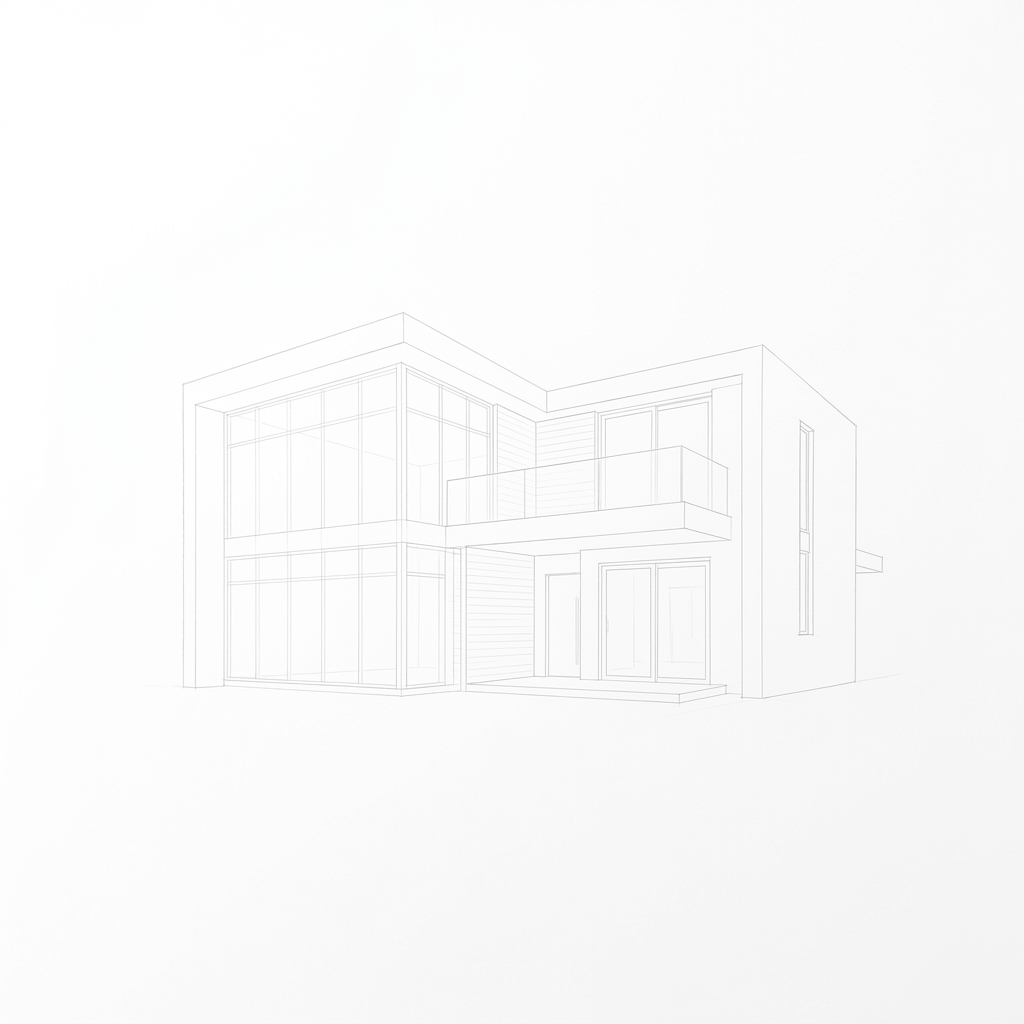
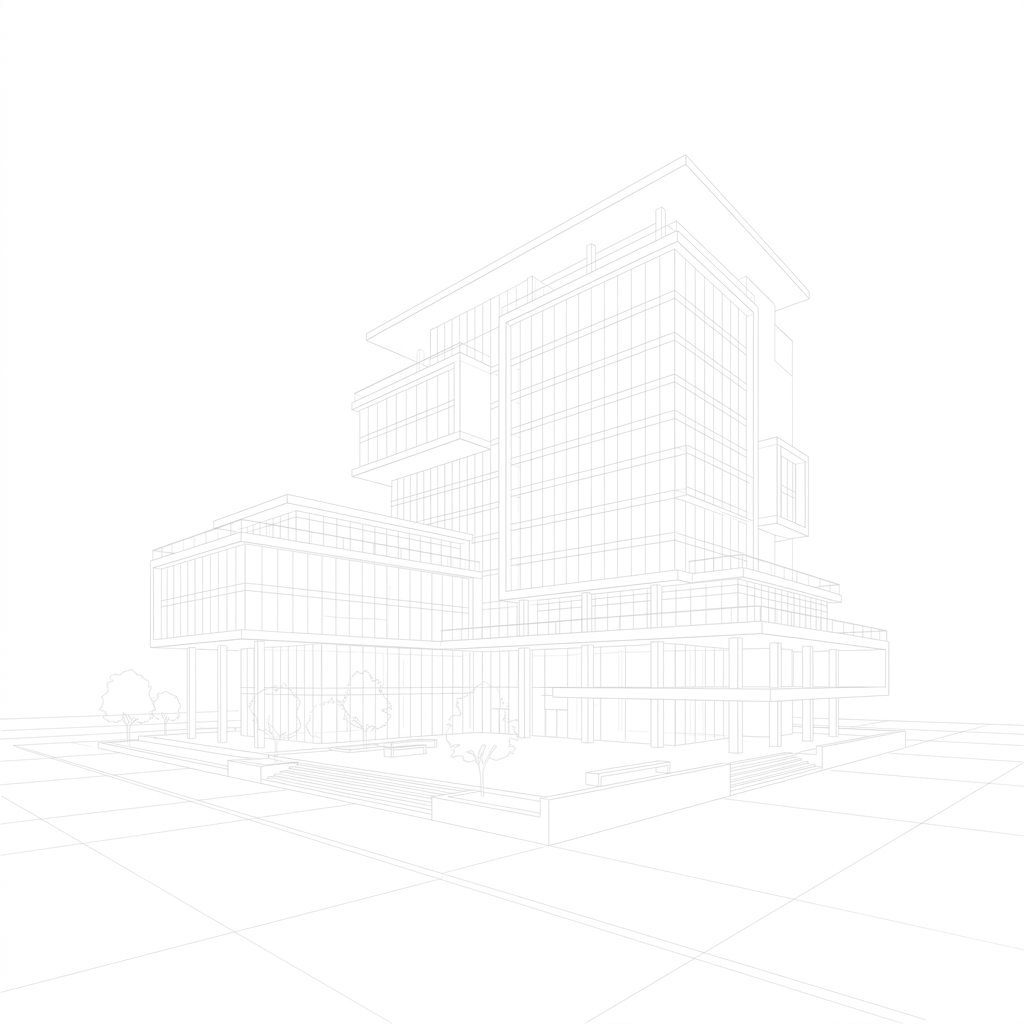
home page 1st sec

diff --git a/assets/css/style.css b/assets/css/style.css
@@ -632,9 +632,15 @@ p {
 #about {
   background: var(--white) url('../images/sketch-bg.png') no-repeat 65% center;
   background-size: 45%;
-  background-blend-mode: multiply;
   overflow: hidden;
   padding: 80px 0;
+}
+
+/* Make the about section fill full screen width like the reference site */
+#about .container {
+  max-width: 100%;
+  width: 100%;
+  padding: 0 6vw;
 }
 
 .new-about-top {
@@ -653,13 +659,23 @@ p {
 }
 
 .about-slideshow {
-  flex: 0 0 540px;
-  height: 320px;
+  flex: 0 0 433px;
+  width: 433px;
+  height: 217px;
   position: relative;
   z-index: 3;
   margin-right: 0;
   margin-top: 0;
   overflow: hidden;
+}
+
+/* Zoomed out (90%–50%): viewport CSS pixels grow, use larger fixed size */
+@media (min-width: 1800px) {
+  .about-slideshow {
+    flex: 0 0 558px;
+    width: 558px;
+    height: 280px;
+  }
 }
 
 .about-slide {
@@ -699,13 +715,13 @@ p {
 
 .new-about-heading {
   font-family: var(--font-b);
-  font-size: clamp(1.6rem, 3.2vw, 2.6rem);
+  font-size: clamp(1.6rem, 3.2vw, 3.2rem);
   font-weight: 300;
-  line-height: 1.1;
+  line-height: 1.15;
   color: var(--black);
   margin-bottom: 1.8rem;
   letter-spacing: -0.03em;
-  max-width: 95%;
+  max-width: 100%;
 }
 
 .new-read-more {
@@ -749,7 +765,7 @@ p {
 .new-about-col h3 {
   font-family: var(--font-b);
   font-size: 1.25rem;
-  font-weight: 600;
+  font-weight: 500;
   margin-bottom: 1.2rem;
   letter-spacing: -0.01em;
 }